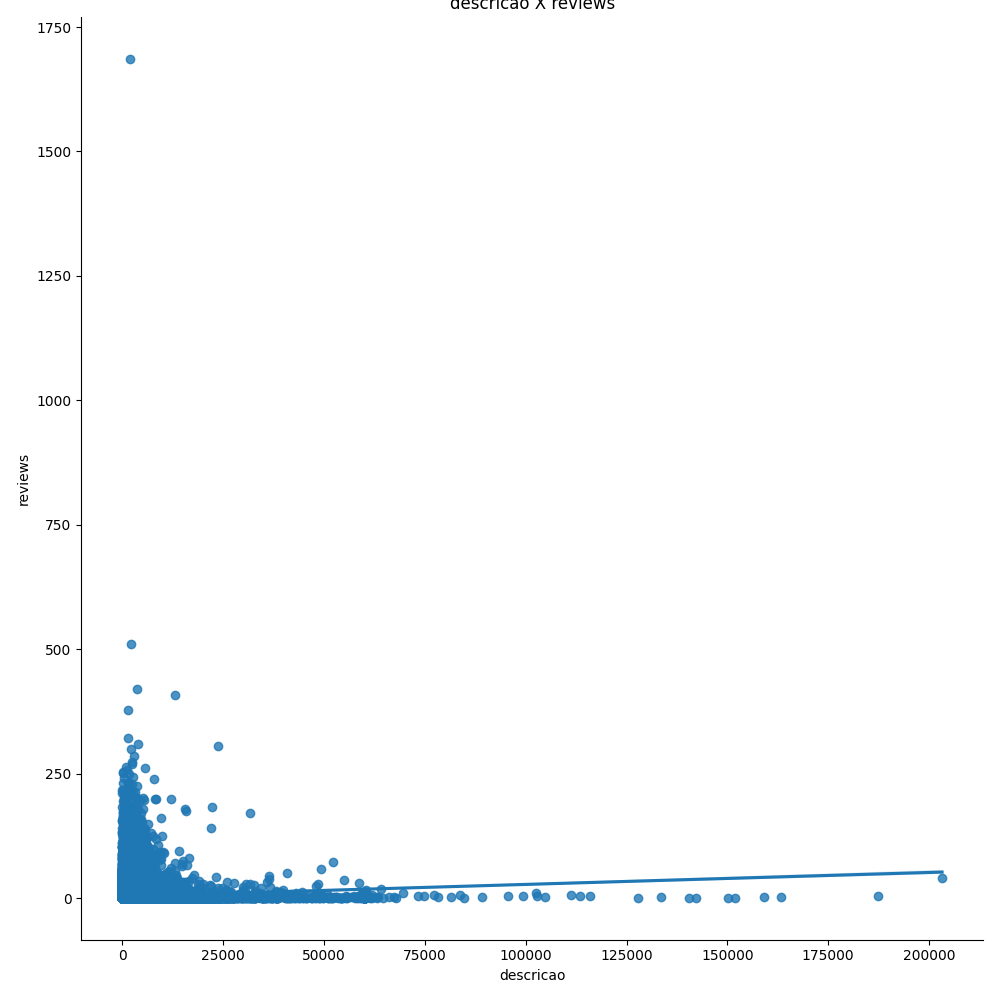
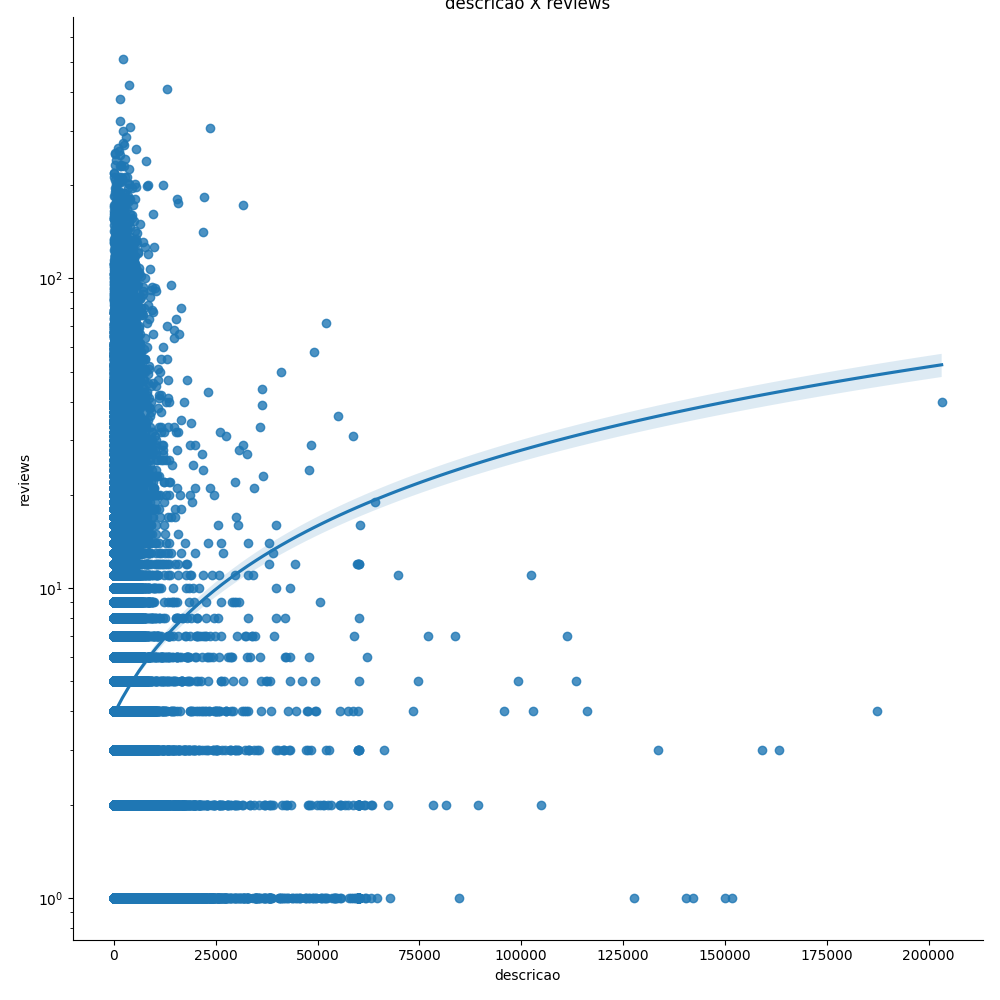
mudança nos graficos

diff --git a/analiser.py b/analiser.py
@@ -2,11 +2,9 @@ import pandas as pd
 import matplotlib.pyplot as plt
 import seaborn as sns
 from scipy.stats import ttest_ind
+from matplotlib.ticker import ScalarFormatter
 
 df = pd.read_csv('dados-pr-filtrado.csv')
-
-#Trocar closed e merged por 1 ou 0 para fazer os testes de correlação
-df['status'] = df['state'].replace(['MERGED', 'CLOSED'], [1, 0])
 
 #Mudar o tipo das datas
 df['created_at'] = pd.to_datetime(df['created_at'])
@@ -15,16 +13,19 @@ df['closed_at'] = pd.to_datetime(df['closed_at'])
 #Calcular o tempo de vida em horas
 df['tempo'] = (df['closed_at'] - df['created_at']).dt.total_seconds() / 3600
 
+#Definir as dimensões analisadas
 metrics = ['tamanho', 'interacoes', 'descricao', 'tempo']
+
+# Scatterplots
 for m in metrics:
     title = f'{m} X reviews'
     sns.pairplot(data=df, y_vars='reviews', x_vars=m, kind="reg", height=10)
-    plt.xscale('log')
-    plt.yscale('log')
     plt.title(title)
+    plt.yscale('log')
     plt.savefig(f'figs/{title}.png')
     plt.show()
 
+#Boxplots
 for m in metrics:
     title = f'{m} X state'
     groups = df.groupby(['state'])
@@ -33,6 +34,9 @@ for m in metrics:
 
     t_stat, p_valor = ttest_ind(grupo1, grupo2)
     medians = groups[m].median()
+    q1_merged, q3_merged = grupo1.quantile([0.25, 0.75])
+    q1_closed, q3_closed = grupo2.quantile([0.25, 0.75])
+
     sns.boxplot(
         data=df,
         y=m,
@@ -40,20 +44,24 @@ for m in metrics:
         width=0.8,
         linewidth=1.0,
     )
-    # plt.xscale('log')
-    plt.yscale('log')
+
+    plt.text(0, q1_merged, f'Q1={q1_merged:.2f}', horizontalalignment='left')
+    plt.text(1, q1_closed, f'Q1={q1_closed:.2f}', horizontalalignment='left')
+    plt.text(0, q3_merged, f'Q3={q3_merged:.2f}', horizontalalignment='left')
+    plt.text(1, q3_closed, f'Q3={q3_closed:.2f}', horizontalalignment='left')
     for i, val in enumerate(medians.values[::-1]):
         plt.text(i,
                  val,
                  f'{val:.2f}',
                  horizontalalignment='center',
                  fontweight='bold')
+
     plt.title(title + f'\nT-stat: {t_stat:.2f} | P-value: {p_valor:.3f}')
+    plt.yscale('log')
     plt.savefig(f'figs/{title}.png')
     plt.show()
-    
 
-
+#Heatmap de correlações
 cols = ['tamanho', 'interacoes', 'descricao', 'tempo', 'reviews']
 corr = df[cols].corr('spearman')
 
@@ -68,4 +76,3 @@ sns.heatmap(data=corr, annot=True, square=True, robust=False)
 plt.title('Heatmap correlação reviews')
 plt.savefig('figs/heatmap.png')
 plt.show()
-
